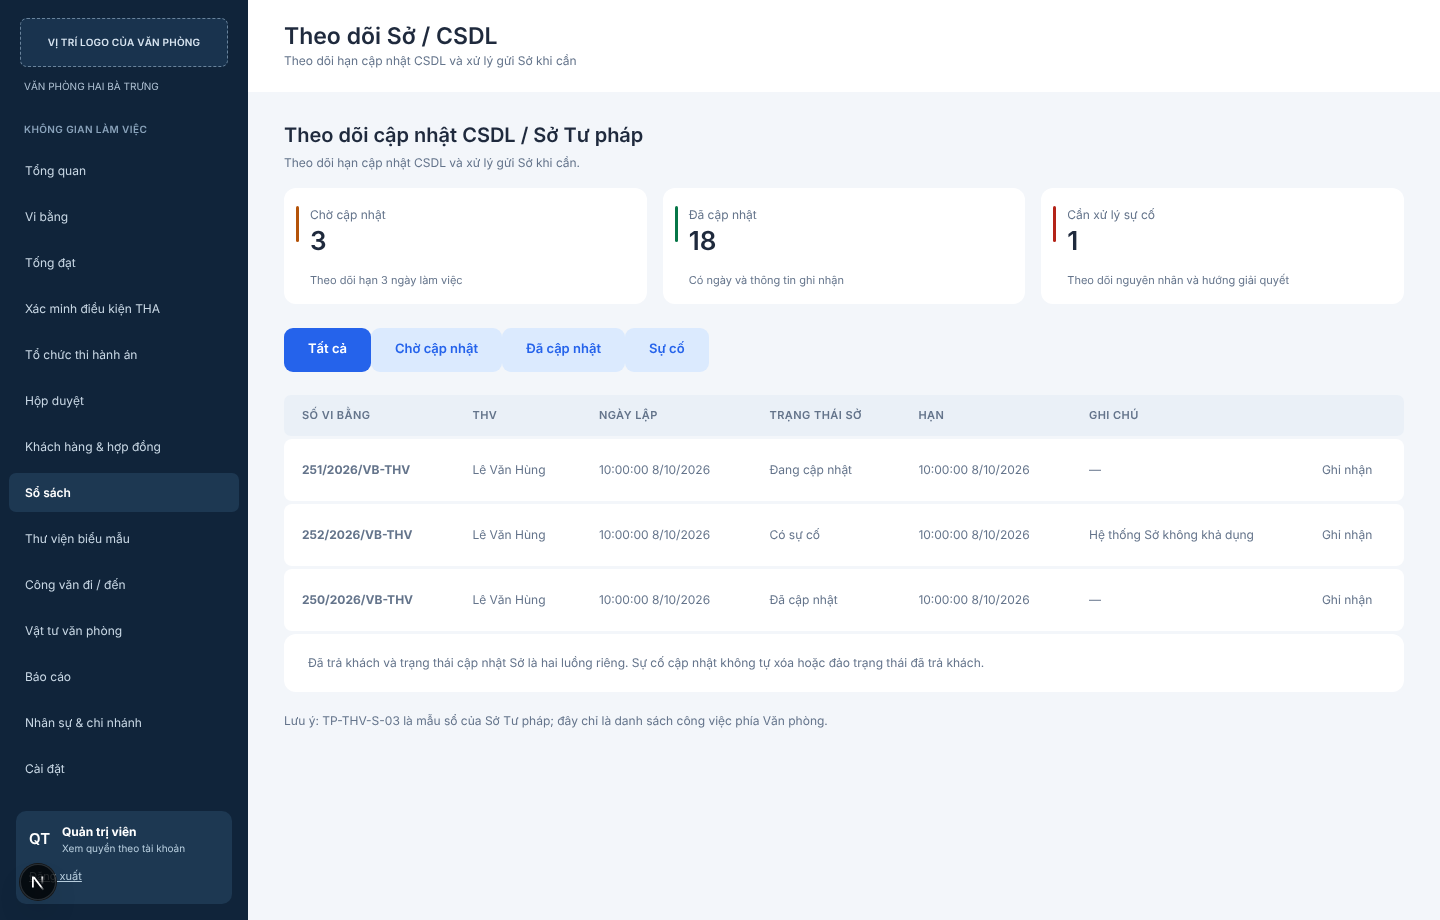
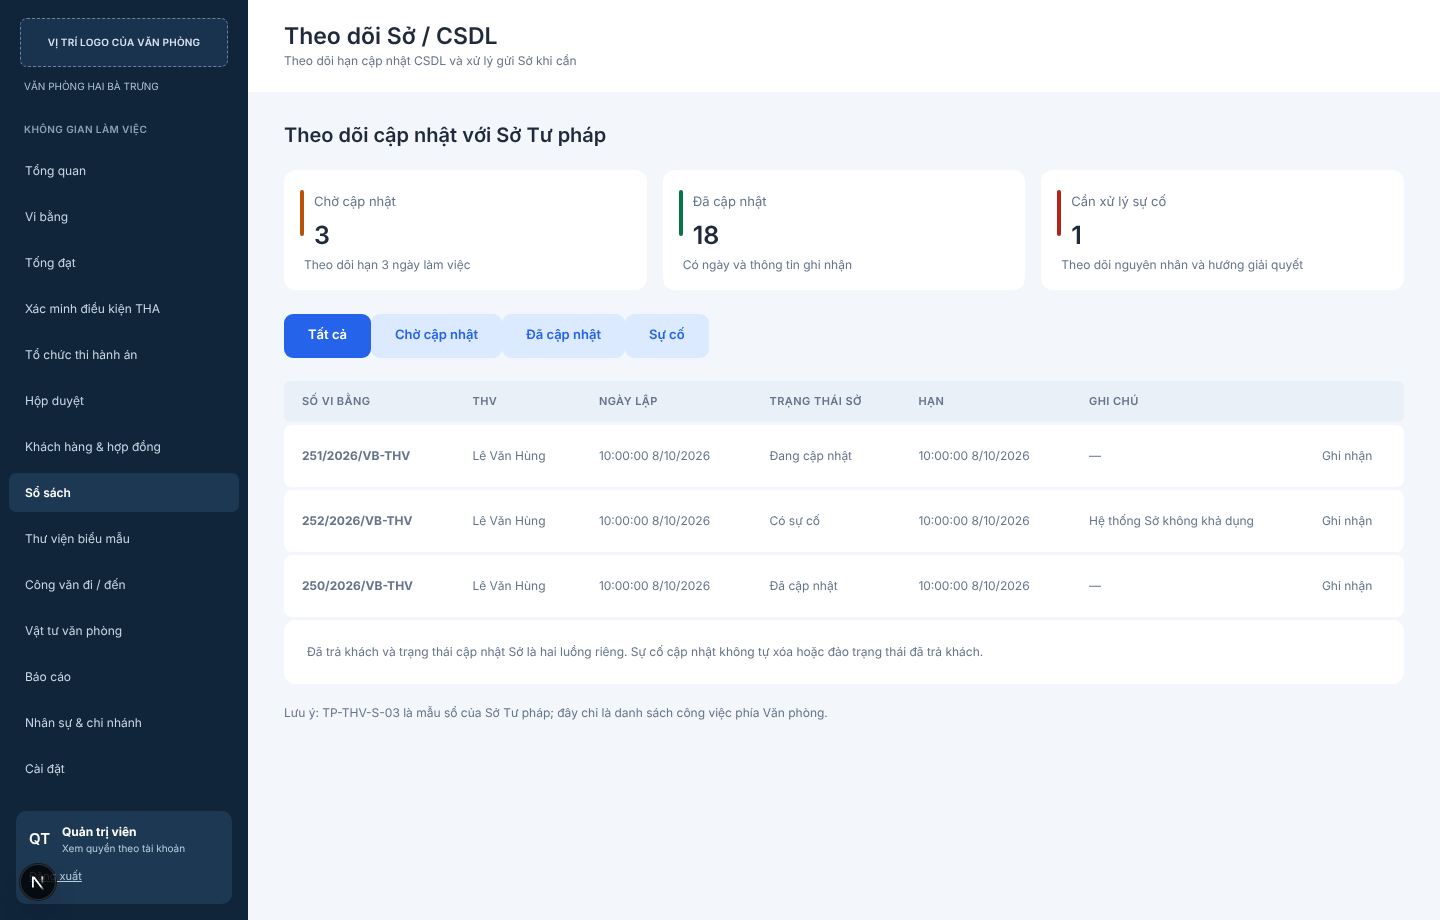
fix(web): khớp thẻ số liệu, khung và danh sách Tổng quan / Theo dõi Sở với Figma
Claude-Session: https://claude.ai/code/session_01TuayhBfCeqvzC4WVhHb6qe

diff --git a/apps/web/app/globals.css b/apps/web/app/globals.css
@@ -500,19 +500,29 @@ th a:hover {
   grid-template-columns: repeat(auto-fit, minmax(200px, 1fr));
   margin-bottom: 24px;
 }
+.stats-top {
+  margin-top: 6px;
+}
+.stats-top .stat {
+  min-height: 130px;
+}
+.stats-top .stat-note {
+  margin-top: 17px !important;
+}
 .stat {
   position: relative;
-  padding: 18px 20px 16px 26px;
+  min-height: 116px;
+  padding: 20px 20px 16px 30px;
   background: var(--surface);
   border-radius: var(--radius);
 }
 .stat::before {
   content: '';
   position: absolute;
-  left: 12px;
-  top: 18px;
-  width: 3px;
-  height: 36px;
+  left: 16px;
+  top: 20px;
+  width: 4px;
+  height: 46px;
   border-radius: 2px;
   background: var(--accent);
 }
@@ -529,37 +539,41 @@ th a:hover {
   margin: 0;
 }
 .stat-label {
-  font-size: 12px;
+  font-size: 13px;
+  line-height: 22px;
   color: var(--muted);
 }
 .stat-value {
-  font-size: 26px;
+  margin-top: 5px !important;
+  font-size: 25px;
   font-weight: 600;
-  line-height: 1.3;
+  line-height: 36px;
 }
 .stat-note {
-  margin-top: 14px !important;
-  font-size: 11px;
+  margin: 3px 0 0 -10px !important;
+  font-size: 12px;
+  line-height: 18px;
   color: var(--muted);
 }
 .panels {
   display: grid;
-  gap: 16px;
+  gap: 24px;
   grid-template-columns: 1fr;
 }
 @media (min-width: 900px) {
   .panels {
-    grid-template-columns: 2fr 1fr;
+    grid-template-columns: minmax(0, 725fr) minmax(0, 368fr);
   }
 }
 .panel {
-  padding: 20px 24px;
+  padding: 23px;
   background: var(--surface);
   border-radius: var(--radius);
 }
 .panel h2 {
-  margin: 0 0 12px;
-  font-size: 17px;
+  margin: 0 0 27px;
+  font-size: 18px;
+  line-height: 27px;
 }
 .panel .muted {
   margin: 0;
@@ -570,14 +584,15 @@ th a:hover {
   padding: 0;
   list-style: none;
   display: grid;
-  gap: 4px;
+  gap: 14px;
 }
 .rows li {
   display: flex;
   align-items: center;
   justify-content: space-between;
   gap: 12px;
-  padding: 14px 12px;
+  min-height: 60px;
+  padding: 0 15px;
   border-radius: var(--radius-sm);
 }
 .rows li:nth-child(even) {
@@ -589,17 +604,22 @@ th a:hover {
   color: var(--ink);
   text-decoration: none;
 }
+.reminders {
+  gap: 22px;
+  margin-top: -5px;
+}
 .reminders li {
   position: relative;
-  padding: 10px 0 10px 18px;
+  min-height: 22px;
+  padding: 0 0 0 23px;
 }
 .reminders li::before {
   content: '';
   position: absolute;
   left: 0;
-  top: 17px;
-  width: 7px;
-  height: 7px;
+  top: 4px;
+  width: 9px;
+  height: 9px;
   border-radius: 50%;
   background: #b45309;
 }

diff --git a/apps/web/components/AppShell.tsx b/apps/web/components/AppShell.tsx
@@ -30,8 +30,8 @@ const SUBPAGE_HEAD: Record<string, { title: string; sub: string }> = {
     sub: 'Thông tin pháp lý và thiết lập toàn văn phòng',
   },
   '/so-sach/theo-doi-so': {
-    title: 'Theo dõi Sở / CSDL',
-    sub: 'Theo dõi hạn cập nhật CSDL và xử lý gửi Sở khi cần',
+    title: 'Sổ theo dõi S-03',
+    sub: 'Theo dõi thông tin cập nhật Sở Tư pháp',
   },
   '/hop-dong/n-03': {
     title: 'Hợp đồng dịch vụ lập Vi bằng · N-03',

diff --git a/apps/web/app/so-sach/theo-doi-so/page.tsx b/apps/web/app/so-sach/theo-doi-so/page.tsx
@@ -56,8 +56,7 @@ export default async function Page({
     <section aria-labelledby="t">
       <div className="page-head">
         <div>
-          <h1 id="t">Theo dõi cập nhật CSDL / Sở Tư pháp</h1>
-          <p className="muted">Theo dõi hạn cập nhật CSDL và xử lý gửi Sở khi cần.</p>
+          <h1 id="t">Theo dõi cập nhật với Sở Tư pháp</h1>
         </div>
       </div>
       <div className="stats">

diff --git a/apps/web/app/page.tsx b/apps/web/app/page.tsx
@@ -44,7 +44,7 @@ export default async function HomePage() {
       <h1 id="t" className="sr-only">
         Tổng quan
       </h1>
-      <div className="stats">
+      <div className="stats stats-top">
         <StatCard label="Hồ sơ đang xử lý" value={sum.open} note="Chưa trả khách hoặc huỷ" />
         <StatCard
           label="Chưa phân công THV"
